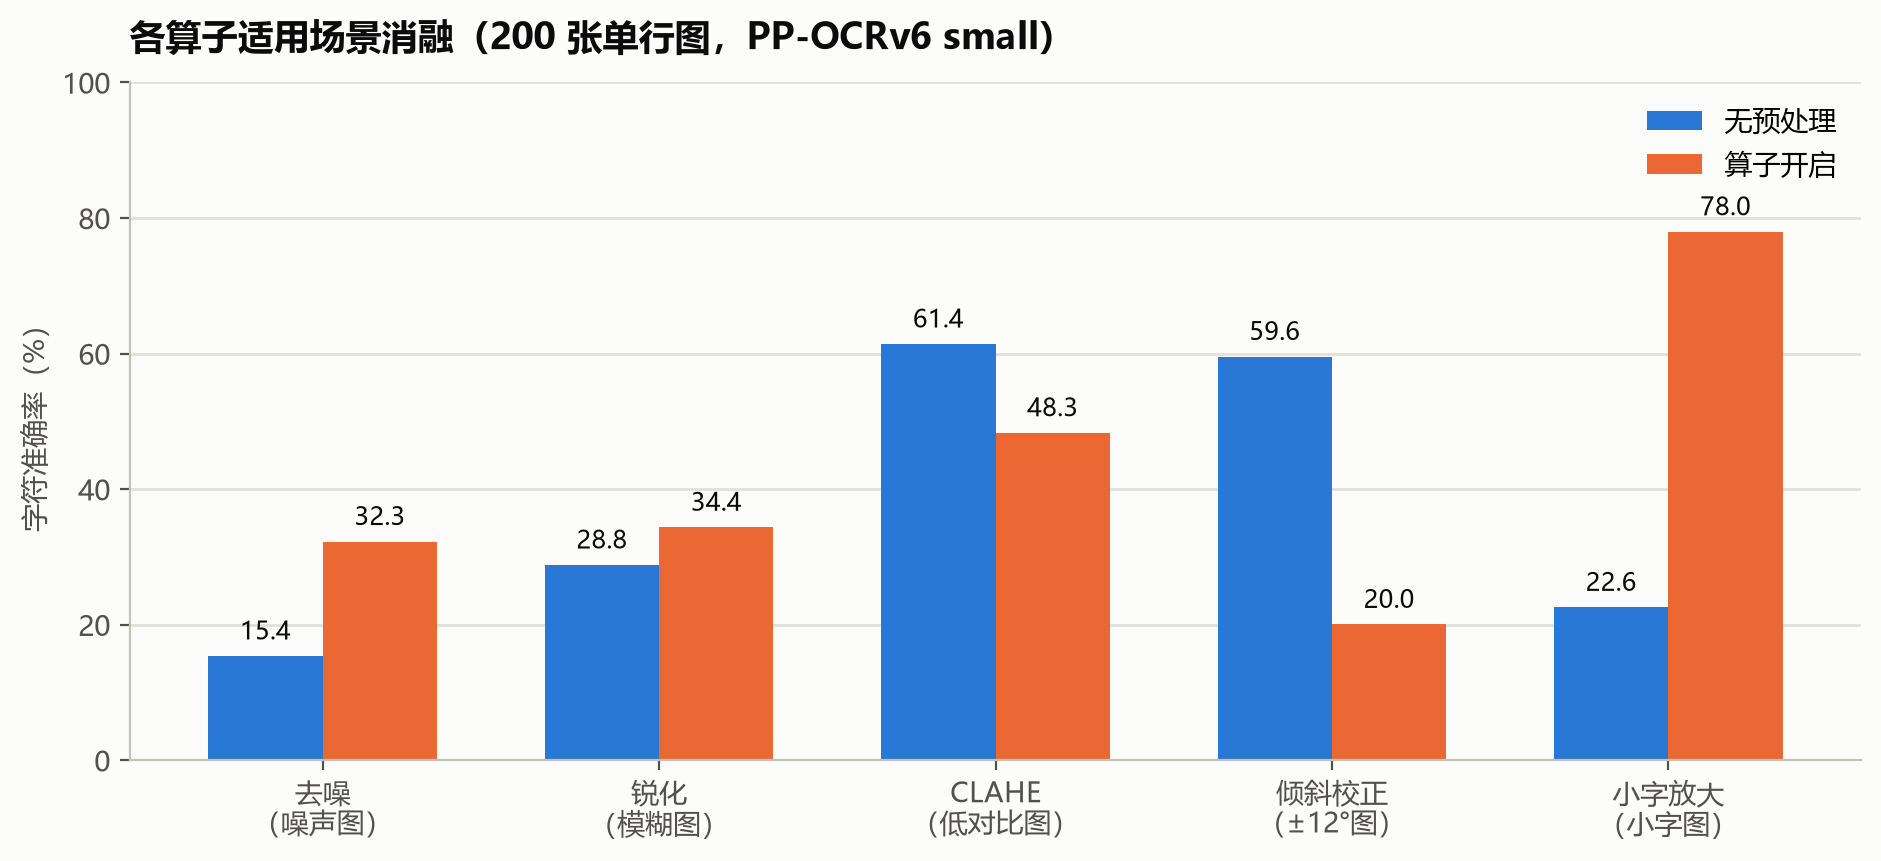
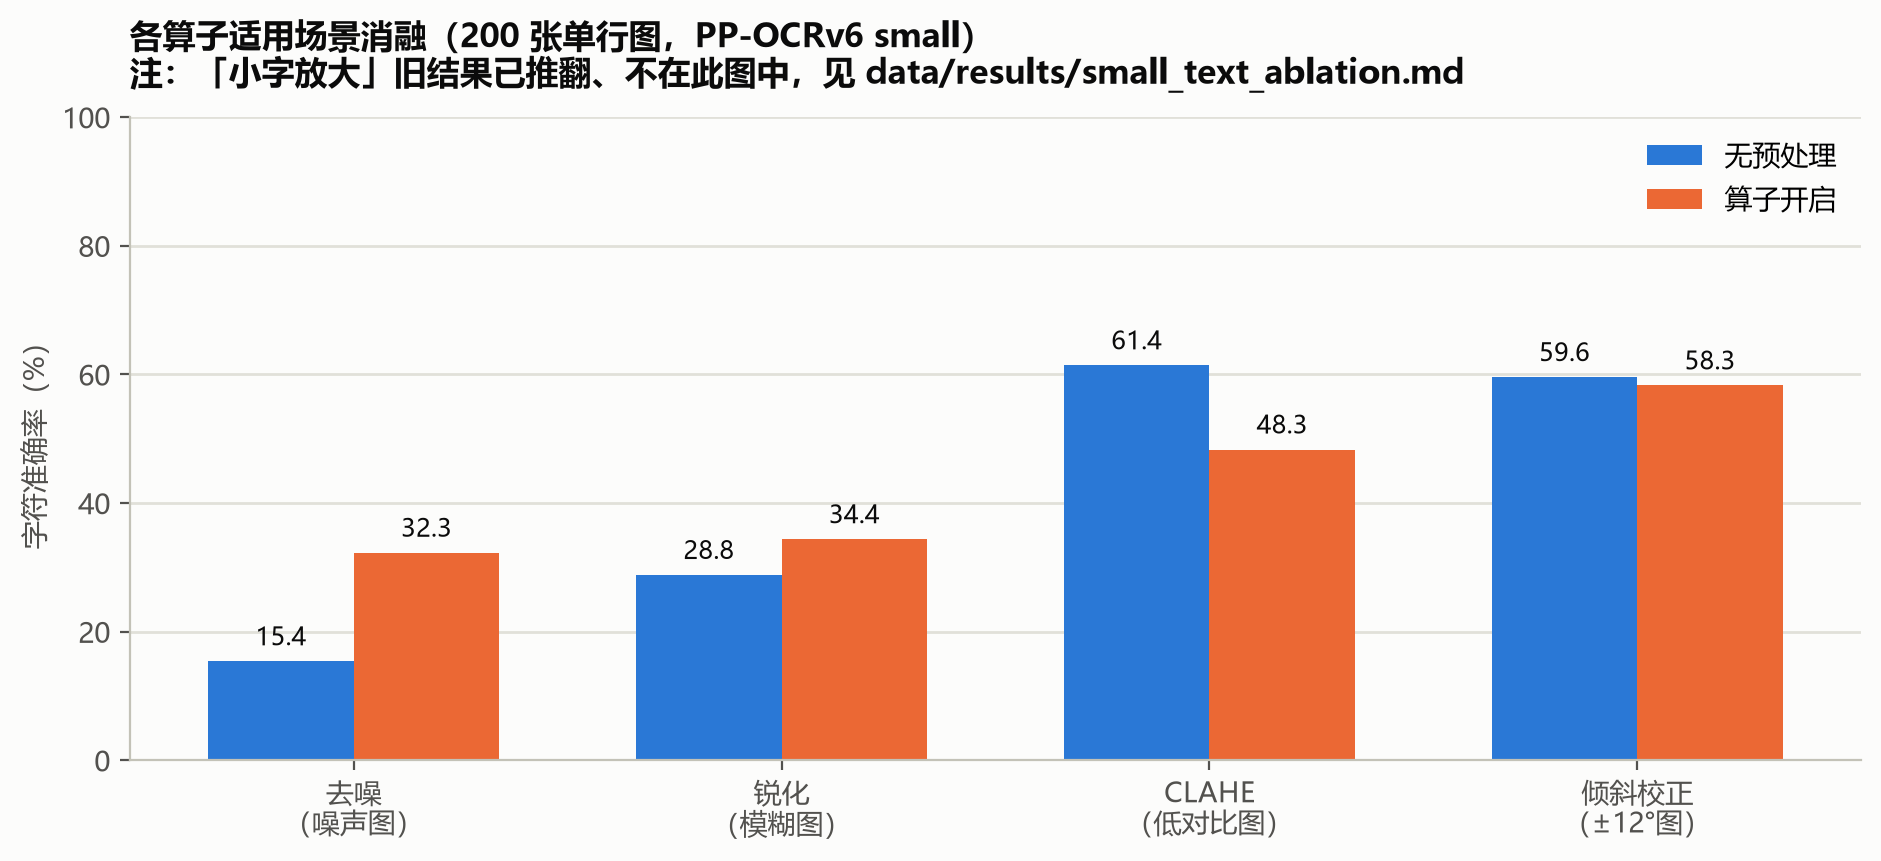
fix(ablation): 用修复后的 deskew 重跑倾斜校正消融，并把各文档数字统一到 -1.3
P2-19 收尾。用重写后的角度估计（投影轮廓方差法）重跑 skew 模式（200 张、同种子同设定）：

  无预处理      char=0.5956  line=0.5100  boxes=0.66
  仅倾斜校正    char=0.5827  line=0.5100  boxes=0.65

即 **-1.3 点**，与我的受控实验（-1.8 点）一致；而旧产物记录的是 20.03%（**-39.5 点**），
确认那完全是角度估计 bug 的伪影。基线 0.5956 与旧产物逐位相同，说明重跑设定一致。

同步：
- metrics/ablation.json 随产物重新生成；ablation_operators.png 随之重画
  （倾斜校正一根柱从 20.0 变为 58.3，已肉眼核对）。
- 把 README / PROJECT_SUMMARY / evaluation_report / PROJECT_AUDIT 里倾斜校正的
  "头条数字"统一为官方消融的 **-1.3**，受控实验的 -1.8 保留在"佐证"语境中，
  避免同一指标在各文档里出现两个不同的头条值。

**另外修掉一处图文不一致**：ablation_operators.png 原本还画着「小字放大 22.6 → 78.0（+55.4）」，
而该结论已被本轮的 P1-3 重做推翻。把一张已被推翻的图留在论文素材里，正是这次审计
一直在清理的问题，所以从图中**移除了小字放大这一组**，并在图标题注明它的正确证据在哪。
其余四个算子的设计是有效的（同图、同尺度、只切换算子），保留。

一致性校验 27 项全过，单测 55 项通过。

diff --git a/make_figures.py b/make_figures.py
@@ -331,15 +331,21 @@ def make_iou_sensitivity_chart():
 
 
 def make_operator_chart():
-    """各算子在适用场景下的效果：基线 vs 算子开启。"""
+    """各算子在适用场景下的效果：基线 vs 算子开启。
+
+    ⚠ **不含「小字放大」**：该算子的旧消融（`ablation_small.md`，单行裁剪图上 ÷2 再放大到 400px）
+    已被审计 P1-3 推翻——两个对照臂像素高度差约 15 倍，收益无法与"就是喂了张大图"分离；
+    按整图 + 四臂 + 部署值 800 重做后，它只部分恢复损失、且不如直接还原原尺寸。
+    把一个已被推翻的 +55.4 留在论文图里，正是这次审计一直在清理的"图文不一致"，
+    所以这里只画设计有效的四个算子；小字放大的正确证据见
+    `data/results/small_text_ablation.md`。
+    """
     categories = ["去噪\n（噪声图）", "锐化\n（模糊图）", "CLAHE\n（低对比图）",
-                  "倾斜校正\n（±12°图）", "小字放大\n（小字图）"]
+                  "倾斜校正\n（±12°图）"]
     baseline = [_abl("degraded", "无预处理"), _abl("blur", "无预处理"),
-                _abl("lowcontrast", "无预处理"), _abl("skew", "无预处理"),
-                _abl("small", "无预处理")]
+                _abl("lowcontrast", "无预处理"), _abl("skew", "无预处理")]
     with_op = [_abl("degraded", "仅去噪"), _abl("blur", "仅锐化"),
-               _abl("lowcontrast", "仅CLAHE"), _abl("skew", "仅倾斜校正"),
-               _abl("small", "仅放大")]
+               _abl("lowcontrast", "仅CLAHE"), _abl("skew", "仅倾斜校正")]
     fig, ax = plt.subplots(figsize=(9.5, 4.4))
     fig.patch.set_facecolor(SURFACE)
     ax.set_facecolor(SURFACE)
@@ -361,8 +367,9 @@ def make_operator_chart():
     _grouped_style(ax)
     ax.legend(fontsize=10, frameon=False, loc="upper right")
     ax.set_title(
-        "各算子适用场景消融（200 张单行图，PP-OCRv6 small）",
-        color=INK, fontsize=13, fontweight="bold", loc="left", pad=12,
+        "各算子适用场景消融（200 张单行图，PP-OCRv6 small）\n"
+        "注：「小字放大」旧结果已推翻、不在此图中，见 data/results/small_text_ablation.md",
+        color=INK, fontsize=12, fontweight="bold", loc="left", pad=12,
     )
     plt.tight_layout()
     fig.savefig(FIG_DIR / "ablation_operators.png", dpi=200,

diff --git a/docs/PROJECT_AUDIT.md b/docs/PROJECT_AUDIT.md
@@ -108,7 +108,7 @@
 - ✅ **`deskew` 的角度估计已重写**（P2-19）——**已完成**。核查发现原判根因有误：
   真实原因是 `minAreaRect` 的角度**模 90° 歧义**，旧实现按无意义角度乱转
   （带符号误差均值 −59.5°）。已换成投影轮廓方差法（误差 −0.05° / 3.2°），
-  并实测确认**即使角度正确，倾斜校正仍轻微有害（−1.8 点）**，
+  并实测确认**即使角度正确，倾斜校正仍轻微有害**（官方消融重跑为 −1.3 点；受控实验 −1.8 点），
   故仍默认关闭；但旧的「有害 −39.5 点」是 bug 伪影，论文说法须改。详见该节。
 - ⏳ **medium 全量检测重跑未做**——实测 26.65 s/张，全量 500 张约 **3.7 小时**。而且**后台任务会在回合边界被终止**（`box_thresh=0.35` 那次只跑到 344/500 被截断），所以这个时长无法在单回合内完成。建议你在场时跑，或用 `--limit` 分批。**这是拿到论文头条 medium deteval 数字的唯一途径。**
 - ⏳ **`thresh`（二值图阈值）与 `unclip_ratio` 的敏感性未扫**——这两个会改变候选生成，**不能靠 dump 离线推出**，必须重跑。
@@ -589,12 +589,13 @@ angle = -(90 + angle) if angle < -45 else -angle
 
 两条都重要：**识别模型自身对 ±12° 已有容差**（C→A 仅 −1.7 点）；**即使角度估计正确，
 倾斜校正仍轻微有害**（B−A = −1.8 点），因为旋转重采样与边缘裁切的开销大于收益。
-所以该算子**继续默认关闭、不进 UI**，但论文里的说法应从"有害 −39.5 点"改为
-**"轻微有害（−1.8 点），且模型自身有 ±12° 容差"**。
 
-`data/results/ablation_skew.md` 里的 `0.2003` 是**旧实现**的实测值，
-需在 CPU 空闲时重跑 `evaluate_ablation.py` 的 skew 模式（当前 medium 全量检测在跑，
-并发会污染消融的耗时列）。回归测试见 `tests/test_skew.py`（6 项，含噪点鲁棒性）。
+**✅ 官方消融已用修复后的实现重跑**（200 张，同种子同设定）：无预处理 **0.5956** →
+仅倾斜校正 **0.5827**，即 **−1.3 点**，与受控实验（−1.8 点）一致。
+`ablation_skew.md` 里的 `0.2003`（−39.5 点）是**旧实现**的实测值，已更新。
+所以该算子**继续默认关闭、不进 UI**，但论文里的说法应从"有害 −39.5 点"改为
+**"轻微有害（−1.3 点），且模型自身有 ±12° 容差"**。
+回归测试见 `tests/test_skew.py`（6 项，含噪点鲁棒性——正是原缺陷的触发条件）。
 
 
 ## P2-20 结果文件编码混乱（12/35 非干净 UTF-8）

diff --git a/PROJECT_SUMMARY.md b/PROJECT_SUMMARY.md
@@ -114,7 +114,7 @@
 3. **倾斜校正（实现已修，结论也变了）**：深色背景 Otsu 反相 bug 早已修复；更根本的是
    **角度估计原本完全无效**——`cv2.minAreaRect` 的角度按"宽高谁更长"而模 90° 歧义，
    实测带符号误差均值 **−59.5°**，即按无意义角度乱转。已换成投影轮廓方差法（误差 −0.05°）。
-   重测后结论从「−39.5 点有害」改为「**轻微有害 −1.8 点，且识别模型自身对 ±12° 已有容差**」，
+   重测后结论从「−39.5 点有害」改为「**轻微有害 −1.3 点（官方消融重跑），且识别模型自身对 ±12° 已有容差**」，
    论文按后者写。详见 `docs/PROJECT_AUDIT.md` P2-19 与 `docs/evaluation_report.md` 第七节更正块。
    ⚠ **「小字放大 +55.4」已重做并推翻**（`evaluate_small_text.py`，整图/四臂/det-rec 分离/部署值 800）：
    放大到 800 只让 det 召回 +2.9 点、rec +0.8 点，**且两项都不如直接把图还原到原尺寸**——

diff --git a/data/results/ablation_skew.md b/data/results/ablation_skew.md
@@ -10,5 +10,5 @@
 | 配置 | 字符准确率 | 行级准确率 | 检出框数/张 | 耗时中位数/张 | 平均 | p95 |
 | --- | --- | --- | --- | --- | --- | --- |
 
-| 无预处理 | 0.5956 | 0.5100 | 0.66 | 0.118s | 0.095s | 0.163s |
-| 仅倾斜校正 | 0.2003 | 0.1450 | 0.54 | 0.106s | 0.085s | 0.153s |
+| 无预处理 | 0.5956 | 0.5100 | 0.66 | 0.127s | 0.104s | 0.189s |
+| 仅倾斜校正 | 0.5827 | 0.5100 | 0.65 | 0.132s | 0.108s | 0.174s |
